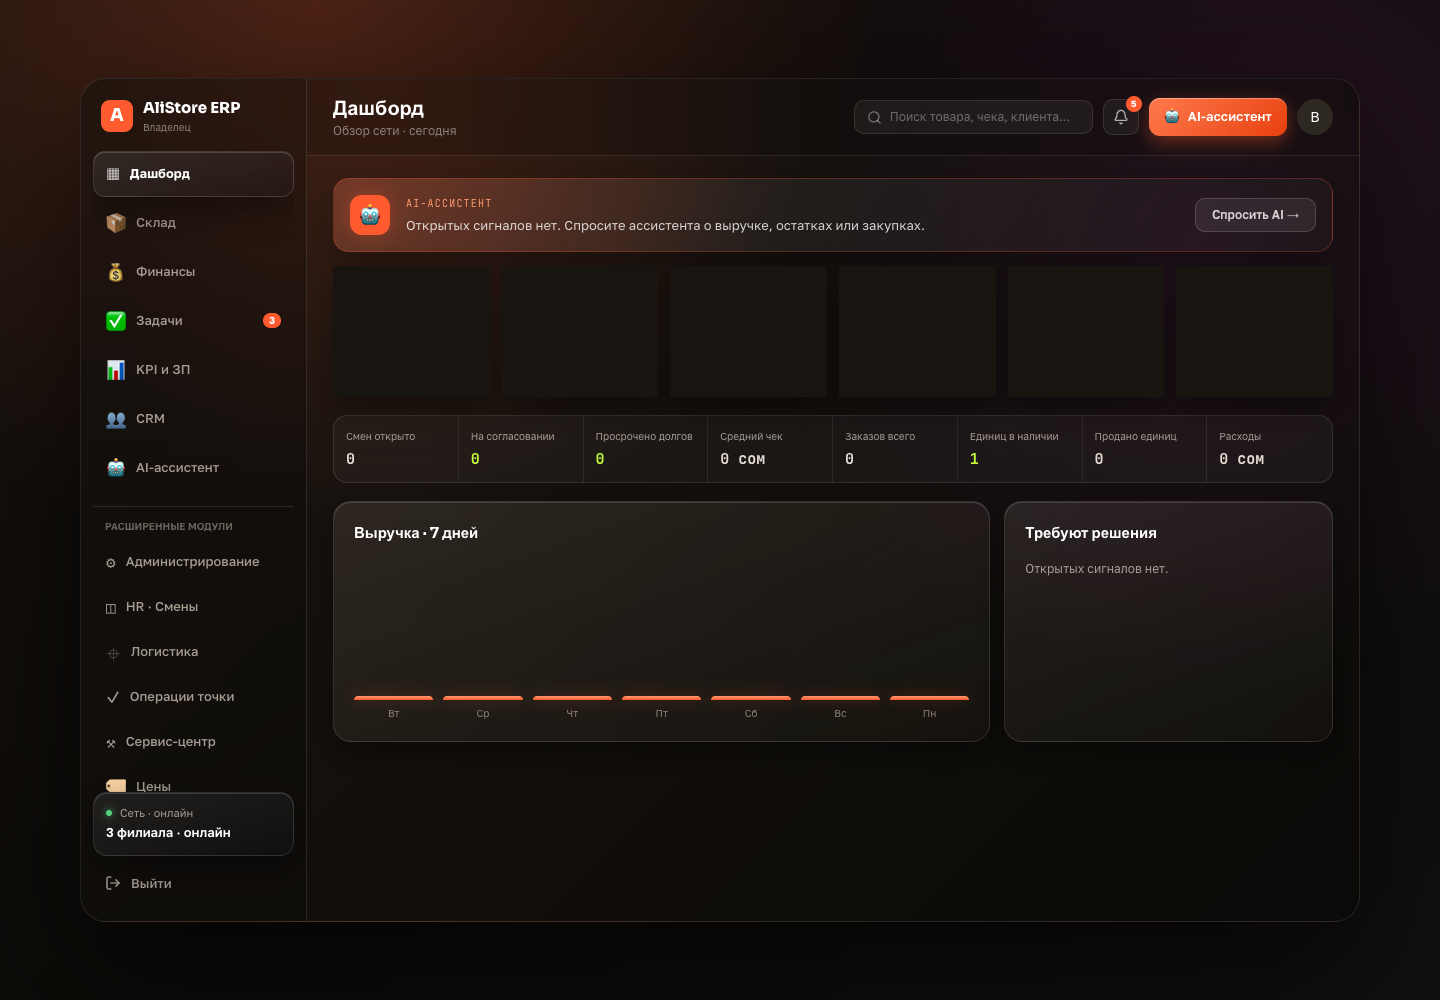
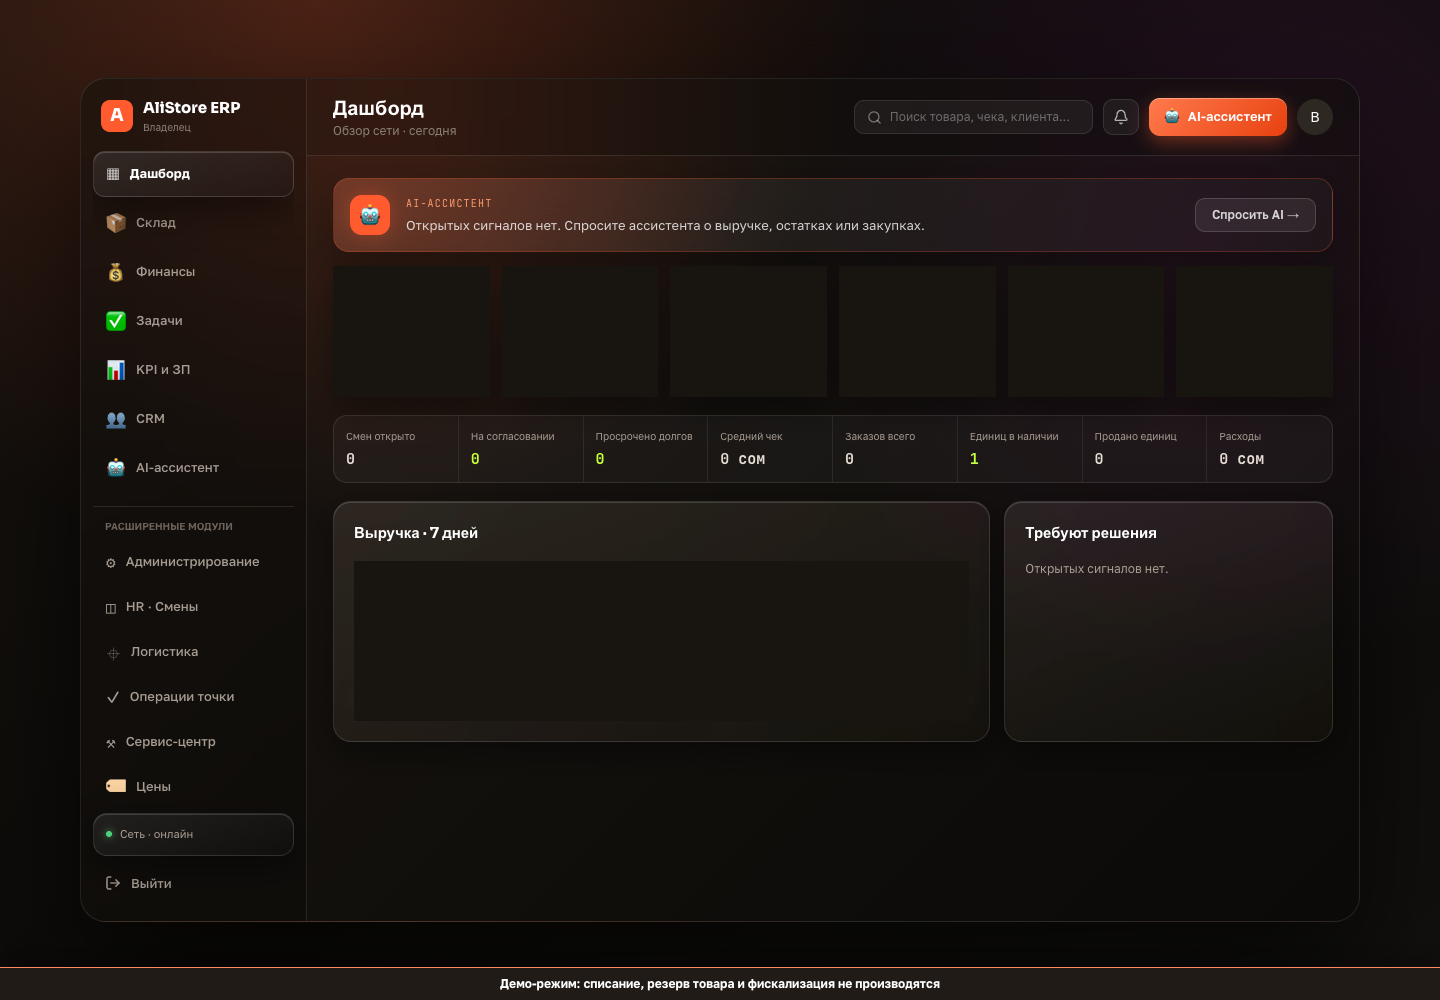
test(web): stabilize ERP visual acceptance

diff --git a/apps/web/components/erp/DashboardView.tsx b/apps/web/components/erp/DashboardView.tsx
@@ -195,7 +195,7 @@ export function DashboardView({ d, risks, revenue, trend, onSignal }: DashboardV
           {bars.length === 0 ? (
             <div className="flex h-[160px] items-center justify-center text-[12px] text-muted">Нет данных о выручке за период</div>
           ) : (
-            <div className="flex h-[160px] items-end gap-2.5">
+            <div data-testid="dashboard-revenue-chart" className="flex h-[160px] items-end gap-2.5">
               {bars.map((b, index) => (
                 <div key={`${b.day}-${index}`} className="flex flex-1 flex-col items-center gap-1.5">
                   <div

diff --git a/e2e/visual-acceptance.spec.ts b/e2e/visual-acceptance.spec.ts
@@ -103,6 +103,7 @@ test('ERP desktop visual baseline', async ({ page }) => {
     fullPage: true,
     mask: [
       page.locator('.h-40'),
+      page.getByTestId('dashboard-revenue-chart'),
       page.locator('[data-testid="kpi-metric"]'),
       page.locator('[data-testid="risk-decision"]'),
     ],